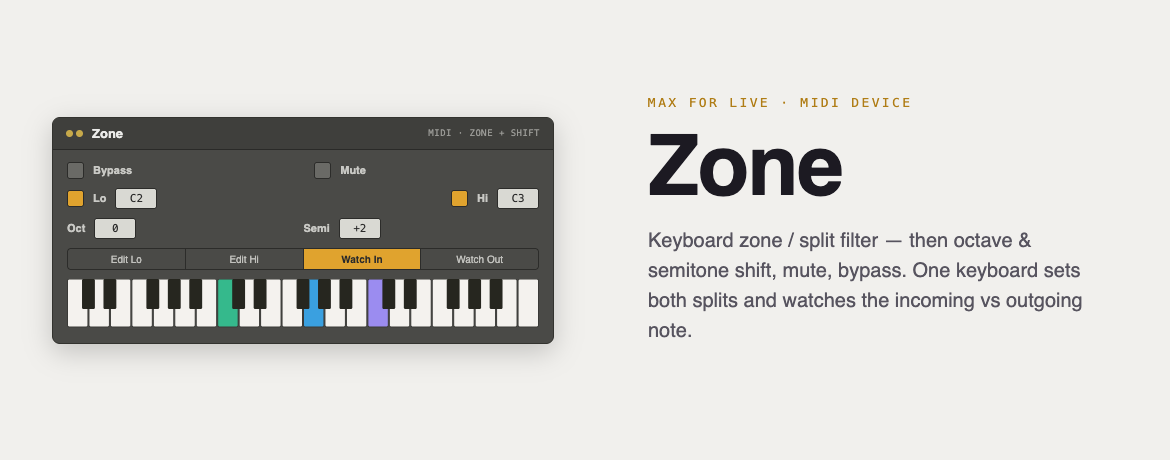
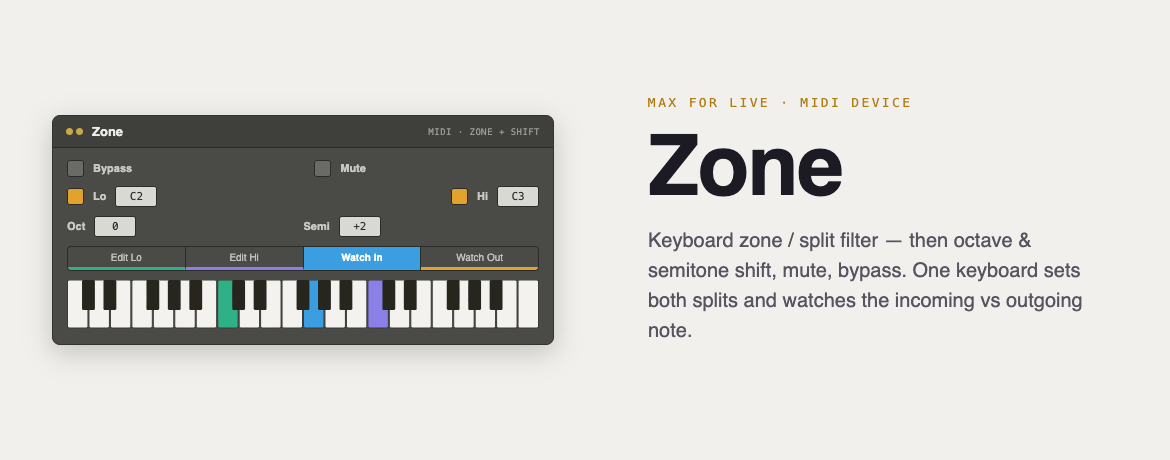
feat: consistent colour code (Lo teal · Hi violet · In blue · Out amber)
The kslider highlight colour follows the active mode; the current bound is lit in Edit modes; banner tabs are colour-coded to match.

diff --git a/zone.js b/zone.js
@@ -1,30 +1,43 @@
-// zone.js — brain of the "Zone" Max for Live MIDI device (v3).
+// zone.js — brain of the "Zone" Max for Live MIDI device (v3.1).
 // Keyboard zone / split filter, THEN octave + semitone shift, plus mute and bypass.
-// One on-screen keyboard, driven by a MODE selector:
-//   0 Edit Lo   — click a key to set the low bound
-//   1 Edit Hi   — click a key to set the high bound
-//   2 Watch In  — the keyboard highlights the INCOMING note you play
-//   3 Watch Out — the keyboard highlights the OUTGOING (filtered + shifted) note
-// So you see the incoming vs outgoing note by switching mode (no custom-drawn keyboard needed).
+// One on-screen keyboard, driven by a MODE selector — with a consistent COLOR CODE:
+//   0 Edit Lo   (teal)   — click a key to set the low bound ; the current Lo key is lit teal
+//   1 Edit Hi   (violet) — click a key to set the high bound ; the current Hi key is lit violet
+//   2 Watch In  (blue)   — the keyboard lights the INCOMING note you play, in blue
+//   3 Watch Out (amber)  — the keyboard lights the OUTGOING (filtered + shifted) note, in amber
+// The keyboard's highlight colour follows the active mode, so the same code (Lo=teal, Hi=violet,
+// In=blue, Out=amber) is reused for the edits and the split-point / note colours.
 //
-// Signal path per note: bypass -> untouched ; mute -> dropped ; else if inside [Lo,Hi) -> pass, shifted by octave*12+semitone.
-// Note tracking: each held note remembers its OUTPUT pitch, so the note-off always matches — no stuck notes.
+// Signal path: bypass -> untouched ; mute -> dropped ; else if inside [Lo,Hi) -> pass, shifted by octave*12+semitone.
+// Note tracking: each held note remembers its OUTPUT pitch -> the note-off always matches, no stuck notes.
 //
 // MIT — free to use, modify and share.
 
 autowatch = 1;
-outlets = 4;   // 0 = MIDI -> midiout ; 1 = Lo feedback ; 2 = Hi feedback ; 3 = keyboard display (pitch velocity) for Watch modes
+outlets = 4;   // 0 = MIDI -> midiout ; 1 = Lo fb ; 2 = Hi fb ; 3 = keyboard (kslider) : hkeycolor + display notes
 
 var loOn = 0, loNote = 0, hiOn = 0, hiNote = 128;
 var oct = 0, semi = 0, muted = 0, bypassed = 0;
-var mode = 0, learning = 0;          // mode 0=Edit Lo, 1=Edit Hi, 2=Watch In, 3=Watch Out
+var mode = 0, learning = 0;
 var held = {};                       // inPitch -> outPitch
+var shown = -1;                      // key currently lit for the Edit-mode bound
+
+// consistent colour code (RGBA 0..1) — Lo teal, Hi violet, In blue, Out amber
+var COL = { lo: [0.18, 0.69, 0.53, 1], hi: [0.55, 0.50, 0.91, 1], "in": [0.23, 0.62, 0.88, 1], out: [0.88, 0.64, 0.18, 1] };
 
 function clamp(v, a, b) { v = Math.round(v); return v < a ? a : (v > b ? b : v); }
 function shift(p)       { return clamp(p + oct * 12 + semi, 0, 127); }
 function passes(p)      { return (!loOn || p >= loNote) && (!hiOn || p < hiNote); }
-function setBound(n)    { if (mode == 1) { hiNote = clamp(n, 0, 127); outlet(2, hiNote); } else if (mode == 0) { loNote = clamp(n, 0, 127); outlet(1, loNote); } }
-function viz(inP, outP, vel) { if (mode == 2) outlet(3, [inP, vel]); else if (mode == 3) outlet(3, [outP, vel]); }  // -> kslider display
+
+function setColor(c) { outlet(3, "hkeycolor", c[0], c[1], c[2], c[3]); }   // kslider highlight colour
+function clearShown() { if (shown >= 0) { outlet(3, [shown, 0]); shown = -1; } }
+function showKey(n)   { clearShown(); outlet(3, [n, 100]); shown = n; }    // light a key (Edit-mode bound)
+
+function setBound(n) {
+    if (mode == 1) { hiNote = clamp(n, 0, 127); outlet(2, hiNote); showKey(hiNote); }
+    else if (mode == 0) { loNote = clamp(n, 0, 127); outlet(1, loNote); showKey(loNote); }
+}
+function viz(inP, outP, vel) { if (mode == 2) outlet(3, [inP, vel]); else if (mode == 3) outlet(3, [outP, vel]); }
 
 function list(pitch, velocity) {
     if (learning && mode < 2 && velocity > 0) { setBound(pitch); learning = 0; return; }
@@ -42,13 +55,19 @@ function noteOff(p) {
 }
 function allOff() { for (var p in held) noteOff(Number(p)); }
 
-function kbd(n)      { if (mode < 2) setBound(n); }   // keyboard click sets the armed bound (edit modes only)
-function moded(v)    { mode = clamp(v, 0, 3); }
+function kbd(n) { if (mode < 2) setBound(n); }        // keyboard click sets the armed bound (edit modes)
+function moded(v) {
+    mode = clamp(v, 0, 3);
+    setColor(mode == 0 ? COL.lo : mode == 1 ? COL.hi : mode == 2 ? COL["in"] : COL.out);
+    clearShown();
+    if (mode == 0) showKey(loNote);
+    else if (mode == 1) showKey(hiNote);              // Watch modes : cleared, live notes fill in
+}
 function learnon(v)  { learning = v ? 1 : 0; }
 function loon(v)     { loOn = v ? 1 : 0; }
-function lo(v)       { loNote = clamp(v, 0, 127); }
+function lo(v)       { loNote = clamp(v, 0, 127); if (mode == 0) showKey(loNote); }
 function hion(v)     { hiOn = v ? 1 : 0; }
-function hi(v)       { hiNote = clamp(v, 0, 127); }
+function hi(v)       { hiNote = clamp(v, 0, 127); if (mode == 1) showKey(hiNote); }
 function octaven(v)  { oct = clamp(v, -4, 4); }
 function semin(v)    { semi = clamp(v, -12, 12); }
 function muteon(v)   { muted = v ? 1 : 0; if (muted) allOff(); }